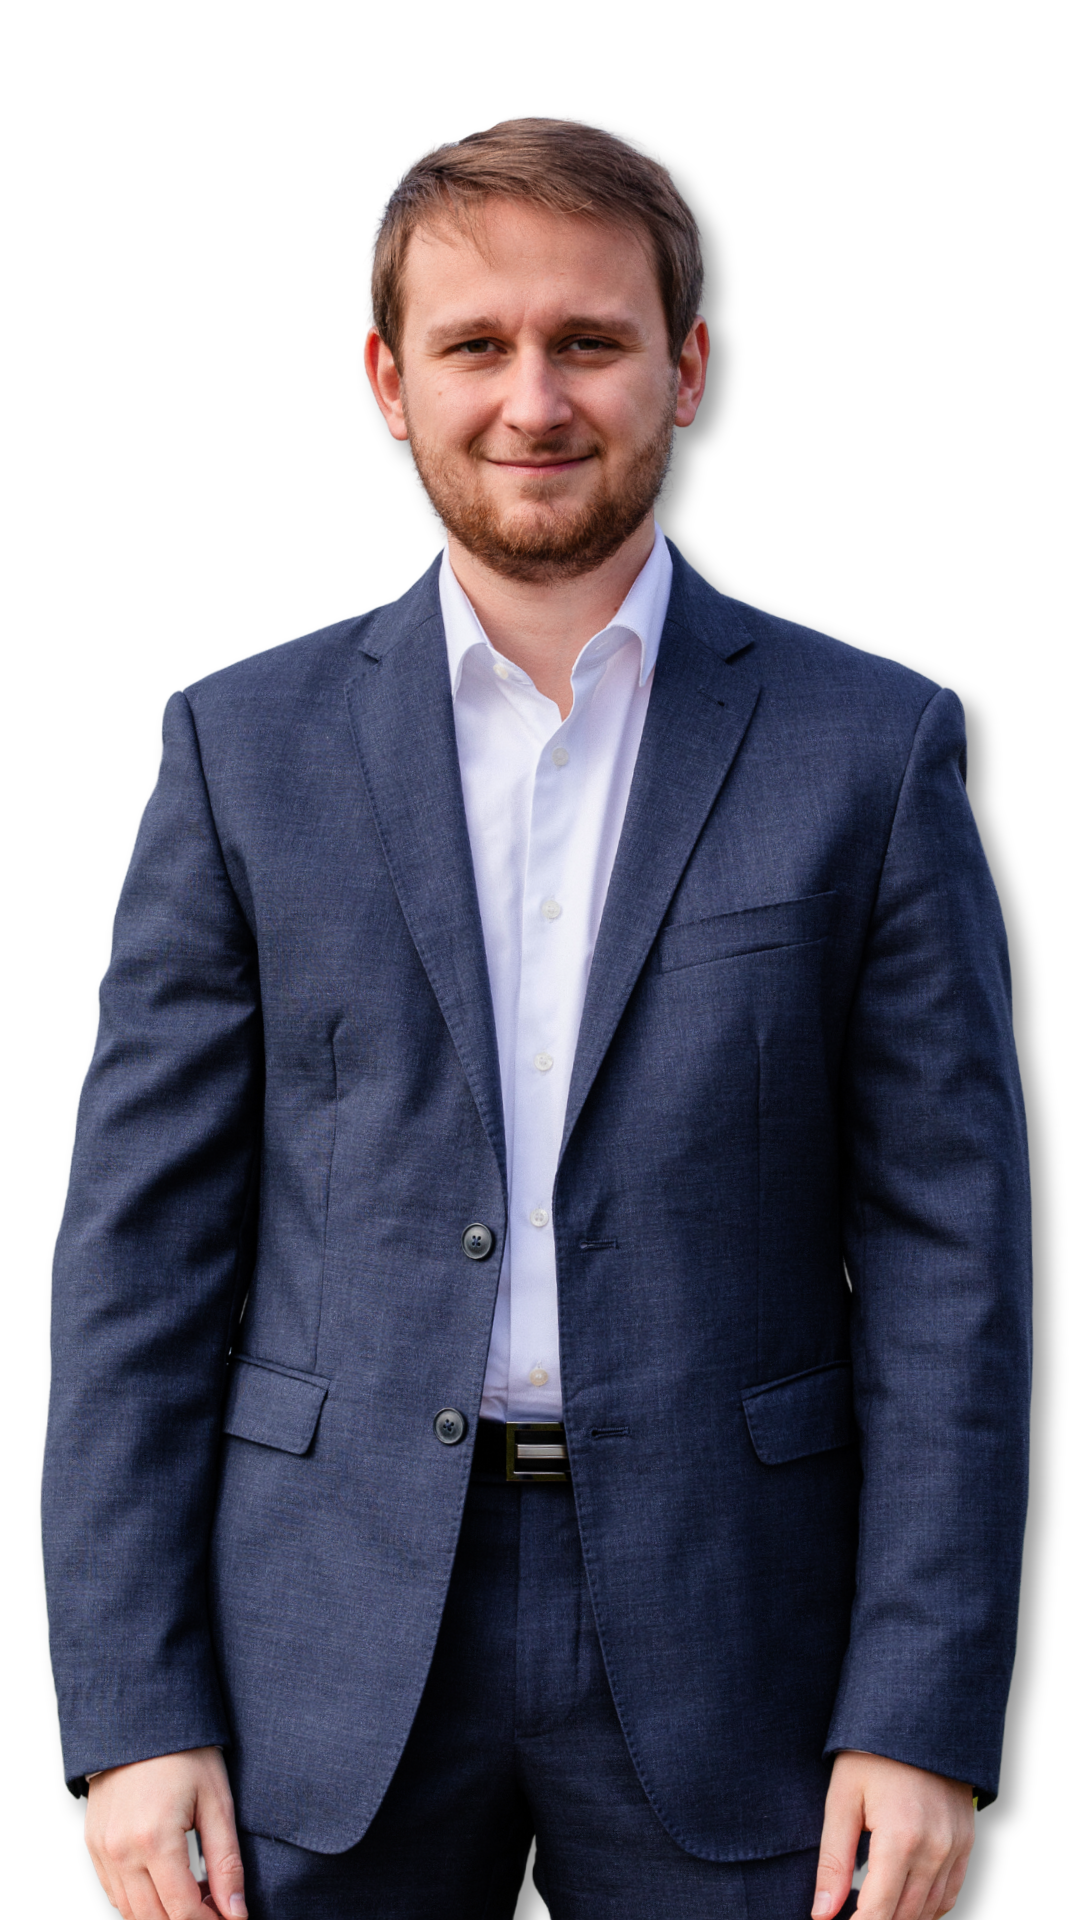
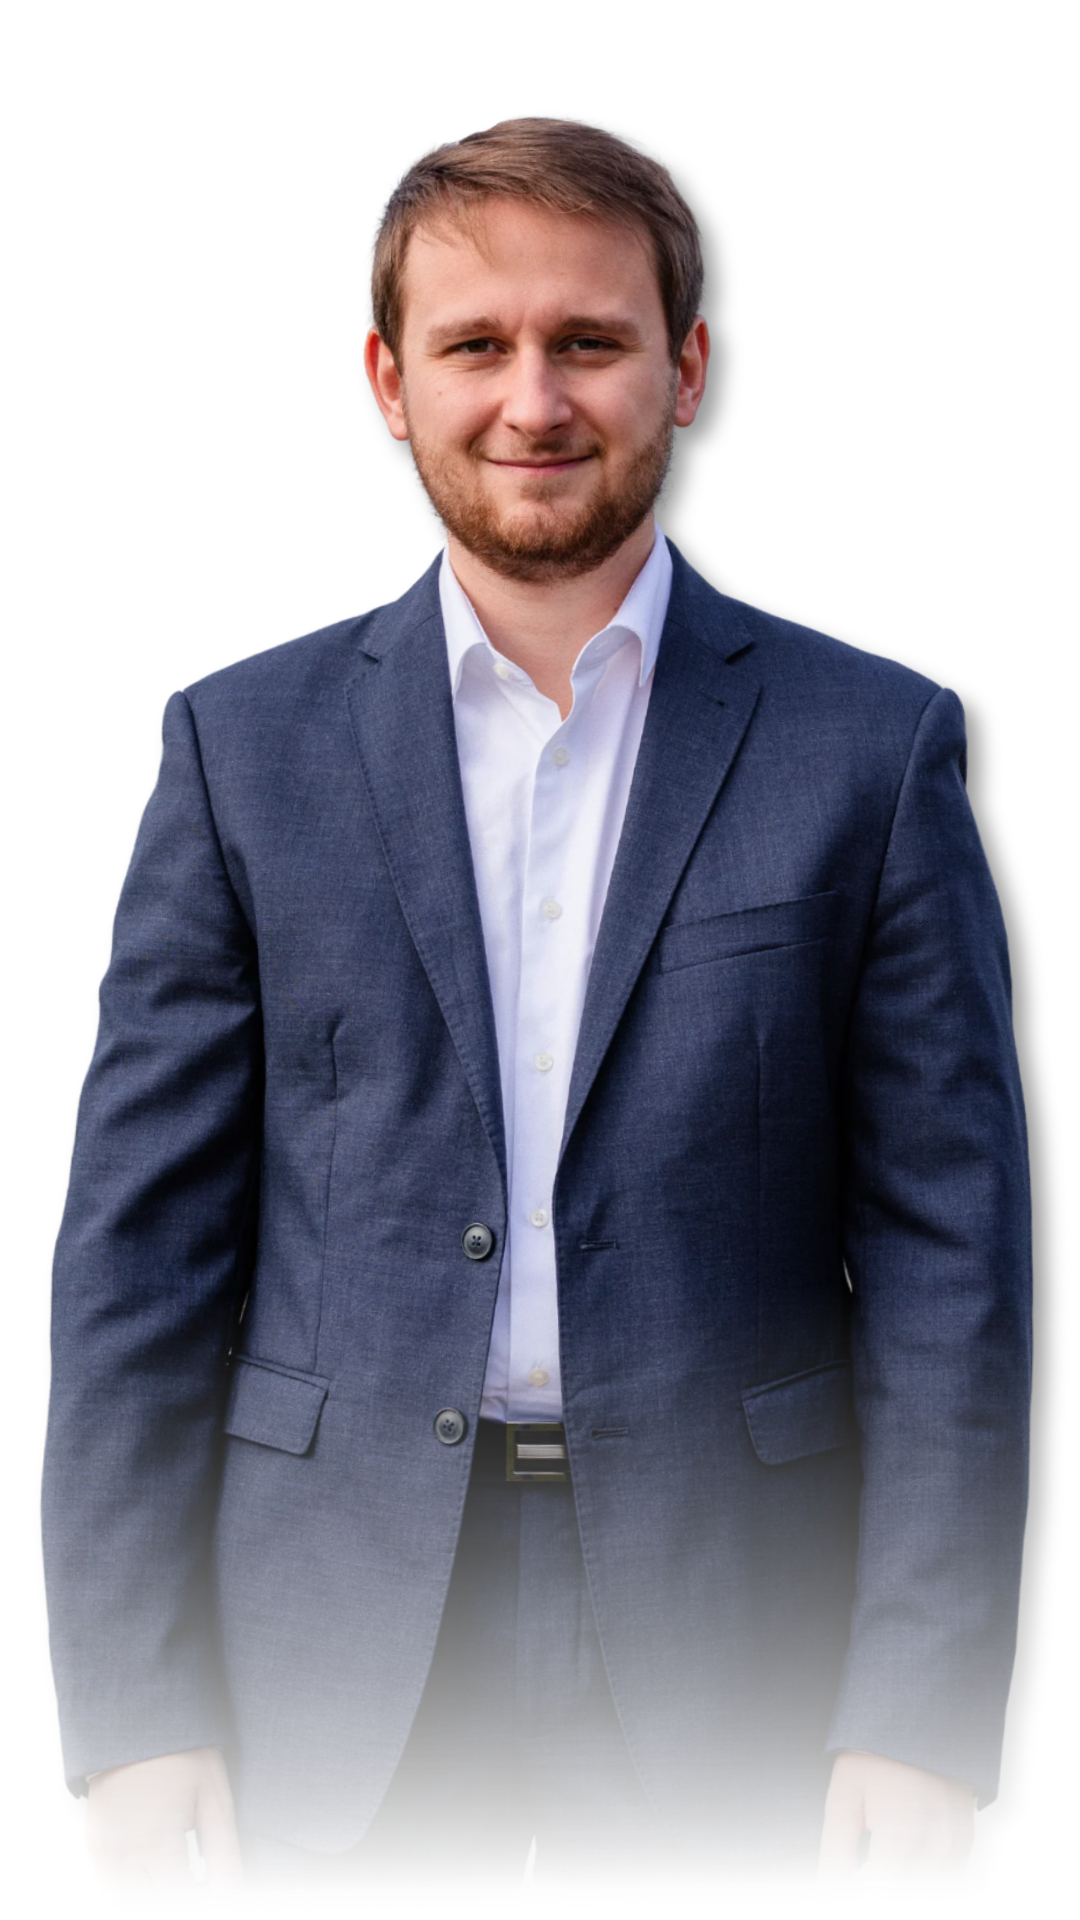
Add files via upload

Changed region(s): [[0.0306, 0.6875, 0.9778, 1.0]]

diff --git a/css/style.css b/css/style.css
@@ -654,3 +654,366 @@ h1 > span { display: block; white-space: nowrap; }
   .candidate-visual img { height: 520px; }
   .source-card { top: 635px; }
 }
+
+
+/* V16 corrective patch */
+.visually-hidden {
+  position: absolute !important;
+  width: 1px !important;
+  height: 1px !important;
+  padding: 0 !important;
+  margin: -1px !important;
+  overflow: hidden !important;
+  clip: rect(0, 0, 0, 0) !important;
+  white-space: nowrap !important;
+  border: 0 !important;
+}
+
+.candidate-visual img {
+  filter: drop-shadow(0 16px 28px rgba(45, 11, 42, .10));
+}
+
+@media (max-width: 700px) {
+  html, body, main {
+    overflow-x: clip;
+  }
+
+  body {
+    background:
+      radial-gradient(68% 44% at -12% 18%, rgba(86, 44, 247, .88) 0 39%, transparent 39.5%),
+      radial-gradient(52% 80% at 122% 13%, rgba(255, 142, 107, .50) 0 45%, transparent 45.5%),
+      radial-gradient(88% 72% at 112% 98%, rgba(255, 98, 132, .42) 0 49%, transparent 49.5%),
+      linear-gradient(138deg, #7343f4 0%, #b044db 27%, #df4fa7 63%, #ff7b63 100%);
+  }
+
+  .top-stage {
+    min-height: 1680px;
+    width: 100%;
+    overflow: clip;
+  }
+
+  .top-stage::before {
+    width: 760px;
+    height: 760px;
+    left: -620px;
+    top: 860px;
+  }
+
+  .top-stage::after {
+    width: 760px;
+    height: 760px;
+    right: -595px;
+    top: 60px;
+  }
+
+  .hero-copy {
+    left: 0;
+    top: max(42px, calc(env(safe-area-inset-top) + 28px));
+    width: 100%;
+    padding: 0 34px;
+  }
+
+  .eyebrow {
+    display: inline-flex;
+    width: auto;
+    margin-bottom: 10px;
+    font-size: .82rem;
+    letter-spacing: .18em;
+  }
+
+  .eyebrow::after {
+    width: 72px;
+    flex-basis: 72px;
+  }
+
+  .hero-context {
+    margin-bottom: 30px;
+    font-size: 1.12rem;
+    line-height: 1.25;
+  }
+
+  h1 {
+    width: 62%;
+    max-width: 5.8ch;
+    font-size: clamp(4.25rem, 16vw, 5.9rem);
+    line-height: .90;
+    letter-spacing: -.065em;
+  }
+
+  .lead {
+    width: 46%;
+    max-width: 248px;
+    margin-top: 24px;
+    font-size: 1rem;
+    line-height: 1.42;
+  }
+
+  .candidate-visual {
+    z-index: 2;
+    top: 195px;
+    right: -43%;
+    width: 97%;
+    height: 1060px;
+  }
+
+  .candidate-visual img {
+    right: 0;
+    bottom: 0;
+    height: 1040px;
+  }
+
+  .source-card {
+    top: 1255px;
+    left: 50%;
+    width: calc(100% - 38px);
+    padding: 30px 22px 24px;
+    transform: translateX(-50%);
+    border-radius: 34px;
+    box-shadow: 0 28px 66px rgba(82, 29, 92, .20);
+  }
+
+  .section-heading {
+    gap: 18px;
+    margin-bottom: 18px;
+  }
+
+  .section-heading h2 {
+    font-size: 2rem;
+    line-height: 1.02;
+  }
+
+  .section-heading p {
+    font-size: 1rem;
+    line-height: 1.45;
+  }
+
+  .step {
+    flex-basis: 82px;
+    width: 82px;
+    height: 82px;
+    font-size: 1.85rem;
+  }
+
+  .action-stack { gap: 12px; }
+
+  .button {
+    min-height: 78px;
+    padding: 14px 18px;
+    border-radius: 18px;
+    font-size: 1.02rem;
+  }
+
+  .button-icon {
+    width: 52px;
+    height: 52px;
+  }
+
+  .facebook-icon {
+    font-size: 2.6rem;
+  }
+
+  .button-arrow {
+    font-size: 3rem;
+  }
+
+  .button-secondary {
+    min-height: 76px;
+    border-width: 2px;
+  }
+
+  .separator {
+    gap: 15px;
+    margin: 2px 0;
+    font-size: .95rem;
+  }
+
+  .privacy-note {
+    gap: 14px;
+    margin-top: 10px;
+    padding-top: 12px;
+  }
+
+  .privacy-note p {
+    font-size: 1rem;
+    line-height: 1.46;
+  }
+
+  .lock-icon {
+    width: 28px;
+    height: 28px;
+    flex-basis: 28px;
+  }
+
+  .site-footer {
+    min-height: 255px;
+    margin-top: -20px;
+    background: transparent;
+  }
+
+  .footer-inner {
+    width: calc(100% - 54px);
+    padding-top: 26px;
+    padding-bottom: max(32px, calc(env(safe-area-inset-bottom) + 22px));
+  }
+
+  .footer-title-row {
+    gap: 20px;
+  }
+
+  .footer-title-row p {
+    font-size: .84rem;
+    letter-spacing: .20em;
+  }
+
+  .social-links {
+    gap: 24px;
+    margin-top: 18px;
+  }
+
+  .social-button {
+    width: 68px;
+    height: 68px;
+    background: rgba(255, 255, 255, .18);
+  }
+
+  .social-button svg {
+    width: 32px;
+    height: 32px;
+  }
+
+  .legal-links {
+    gap: 8px 14px;
+    margin-top: 18px;
+    font-size: .84rem;
+  }
+
+  .footer-note {
+    margin-top: 10px;
+    font-size: .82rem;
+  }
+}
+
+@media (max-width: 430px) {
+  .top-stage {
+    min-height: 1605px;
+  }
+
+  .hero-copy {
+    padding: 0 30px;
+  }
+
+  .eyebrow {
+    font-size: .78rem;
+  }
+
+  .hero-context {
+    font-size: 1rem;
+    margin-bottom: 24px;
+  }
+
+  h1 {
+    width: 64%;
+    max-width: 5.5ch;
+    font-size: clamp(3.85rem, 15.4vw, 5.2rem);
+  }
+
+  .lead {
+    width: 47%;
+    max-width: 222px;
+    font-size: .98rem;
+  }
+
+  .candidate-visual {
+    top: 232px;
+    right: -52%;
+    width: 114%;
+    height: 930px;
+  }
+
+  .candidate-visual img {
+    height: 910px;
+  }
+
+  .source-card {
+    top: 1198px;
+    width: calc(100% - 28px);
+    padding: 28px 20px 22px;
+  }
+
+  .section-heading h2 {
+    font-size: 1.85rem;
+  }
+
+  .section-heading p,
+  .privacy-note p {
+    font-size: .95rem;
+  }
+
+  .button {
+    font-size: .98rem;
+  }
+
+  .social-button {
+    width: 62px;
+    height: 62px;
+  }
+}
+
+@media (max-width: 380px) {
+  .top-stage {
+    min-height: 1535px;
+  }
+
+  .hero-copy {
+    padding: 0 24px;
+  }
+
+  h1 {
+    width: 65%;
+    font-size: 3.45rem;
+  }
+
+  .lead {
+    width: 48%;
+    max-width: 196px;
+    font-size: .93rem;
+  }
+
+  .candidate-visual {
+    top: 228px;
+    right: -60%;
+    width: 125%;
+    height: 880px;
+  }
+
+  .candidate-visual img {
+    height: 860px;
+  }
+
+  .source-card {
+    top: 1158px;
+    width: calc(100% - 20px);
+    padding: 26px 18px 22px;
+  }
+
+  .section-heading {
+    gap: 14px;
+  }
+
+  .step {
+    width: 76px;
+    height: 76px;
+    flex-basis: 76px;
+    font-size: 1.7rem;
+  }
+
+  .section-heading h2 {
+    font-size: 1.75rem;
+  }
+
+  .button {
+    font-size: .93rem;
+  }
+
+  .social-links { gap: 20px; }
+}

diff --git a/README-V16.md b/README-V16.md
@@ -1,0 +1,3 @@
+V16 modifications
+- Desktop: kept validated layout, replaced candidate illustration with the provided cut-out portrait.
+- Mobile: aligned layout to the validated visual direction (hero text left, portrait pushed right, larger white source card lower in the page, footer harmonized), removed horizontal overflow, and hid the native file input.
